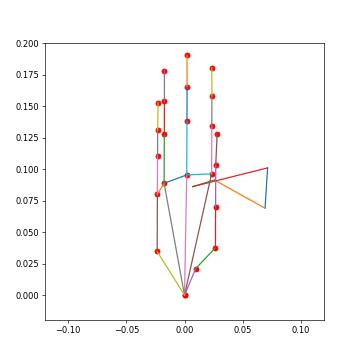
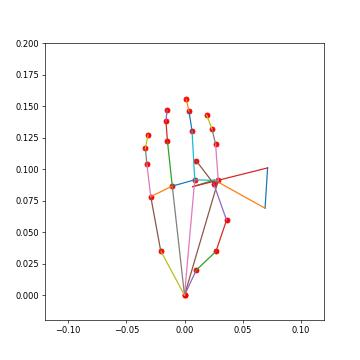
update files.

Changed region(s): [[0.3972, 0.1528, 0.6417, 0.825]]

diff --git a/openteach/components/recorders/image.py b/openteach/components/recorders/image.py
@@ -38,7 +38,8 @@ class RGBImageRecorder(Recorder):
         # Storage path for file
         self._filename = filename
         self._recorder_file_name = os.path.join(storage_path, filename + '.avi')
-        self._metadata_filename = os.path.join(storage_path, filename + '.metadata')
+        # self._metadata_filename = os.path.join(storage_path, filename + '.metadata')
+        self._metadata_filename = os.path.join(storage_path, filename + '.h5')
 
         # Initializing the recorder
         if self.sim==True:
@@ -56,6 +57,7 @@ class RGBImageRecorder(Recorder):
                 IMAGE_RECORD_RESOLUTION
             )
         self.timestamps = []
+        self.rgb_frames = []
 
 
     def stream(self):
@@ -70,6 +72,7 @@ class RGBImageRecorder(Recorder):
                 image, timestamp = self.image_subscriber.recv_rgb_image()
                 assert image is not None, 'Image stream is not active.'
                 self.recorder.write(image)
+                self.rgb_frames.append(image)
                 self.timestamps.append(timestamp)
                 self.num_image_frames += 1
                 self.timer.end_loop()
@@ -85,16 +88,36 @@ class RGBImageRecorder(Recorder):
         
         # Saving the metadata
         self._add_metadata(self.num_image_frames)
-        self.metadata['timestamps'] = self.timestamps
+        # self.metadata['timestamps'] = self.timestamps
         self.metadata['recorder_ip_address'] = self._host
         self.metadata['recorder_image_stream_port'] = self._image_stream_port
 
         # Storing the data
         print('Storing the final version of the video...')
         self.recorder.release()
-        store_pickle_data(self._metadata_filename, self.metadata)
+        # store_pickle_data(self._metadata_filename, self.metadata)
+        
+        print('Compressing RGB data...')
+        with h5py.File(self._metadata_filename, "w") as f:
+            # 使用更高效的压缩算法和分块处理
+            timestamps = np.array(self.timestamps, dtype=np.float64)
+            f.create_dataset("timestamps", data=timestamps, compression="gzip", compression_opts=1)
+            stacked_frames = np.array(self.rgb_frames, dtype=np.uint8)
+            # f.create_dataset("rgb_images", data=stacked_frames, 
+            #                compression="gzip", compression_opts=1,  # 降低压缩级别以提高速度
+            #                chunks=(1, stacked_frames.shape[1], stacked_frames.shape[2], stacked_frames.shape[3]))  # 分块存储
+            f.create_dataset("rgb_images", data = stacked_frames, compression="gzip", compression_opts = 1)
+            
+            # # 保存metadata
+            # for key, value in self.metadata.items():
+            #     try:
+            #         f.create_dataset(key, data=np.array(value))
+            #     except Exception:
+            #         f.create_dataset(key, data=str(value))
+        
         print('Stored the video in {}.'.format(self._recorder_file_name))
         print('Stored the metadata in {}.'.format(self._metadata_filename))
+
 
 
 class DepthImageRecorder(Recorder):
@@ -197,7 +220,7 @@ class FishEyeImageRecorder(Recorder):
         # Storage path for file
         self._filename = filename
         self._recorder_file_name = os.path.join(storage_path, filename + '.avi')
-        self._metadata_filename = os.path.join(storage_path, filename + '.metadata')
+        self._metadata_filename = os.path.join(storage_path, filename + '.h5')
         self._pickle_filename = os.path.join(storage_path, filename + '.pkl')
 
         # Initializing the recorder
@@ -247,6 +270,11 @@ class FishEyeImageRecorder(Recorder):
         # Storing the data
         print('Storing the final version of the video...')
         self.recorder.release()
-        store_pickle_data(self._metadata_filename, self.metadata)
+        with h5py.File(self._metadata_filename, "w") as f:
+            for key, value in self.metadata.items():
+                try:
+                    f.create_dataset(key, data=np.array(value))
+                except Exception:
+                    f.create_dataset(key, data=str(value))
         print('Stored the video in {}.'.format(self._recorder_file_name))
         print('Stored the metadata in {}.'.format(self._metadata_filename))

diff --git a/openteach/components/initializers.py b/openteach/components/initializers.py
@@ -8,6 +8,8 @@ from .recorders.sensors import XelaSensorRecorder
 from .sensors import *
 from multiprocessing import Process
 from openteach.constants import *
+import h5py
+import glob
 
 
 
@@ -245,8 +247,7 @@ class Collector(ProcessInstantiator):
         self._storage_path = os.path.join(
             self.configs.storage_path, 
             'demonstration_{}'.format(self.demo_num)
-        )
-       
+        )       
         self._create_storage_dir()        
         # Initializing the recorders
         if self.configs.sim_env is True:
@@ -412,7 +413,32 @@ class Collector(ProcessInstantiator):
                     args = (robot_controller_configs, key, )
                 ))
 
+    def _init_aloha_recorders(self):
+        # 1. 初始化robot和camera recorder，生成各自的h5文件
+        self._init_robot_recorders()
+        self._init_camera_recorders()
 
-    
+        # 2. 查找所有h5文件（假设都在self._storage_path下）
+        h5_files = glob.glob(os.path.join(self._storage_path, '*.h5'))
+        merged_h5_path = os.path.join(self._storage_path, 'aloha_merged.h5')
+
+        with h5py.File(merged_h5_path, 'w') as merged_f:
+            for h5_path in h5_files:
+                group_name = os.path.splitext(os.path.basename(h5_path))[0]
+                with h5py.File(h5_path, 'r') as src_f:
+                    # 递归复制所有内容到group
+                    def copy_group(src, dst):
+                        for key in src:
+                            if isinstance(src[key], h5py.Group):
+                                g = dst.create_group(key)
+                                copy_group(src[key], g)
+                            else:
+                                src.copy(key, dst)
+                    g = merged_f.create_group(group_name)
+                    copy_group(src_f, g)
+        # 可选：删除原始小h5文件
+        # for h5_path in h5_files:
+        #     os.remove(h5_path)
+        print(f"已合并{len(h5_files)}个h5文件到: {merged_h5_path}")
 
    
